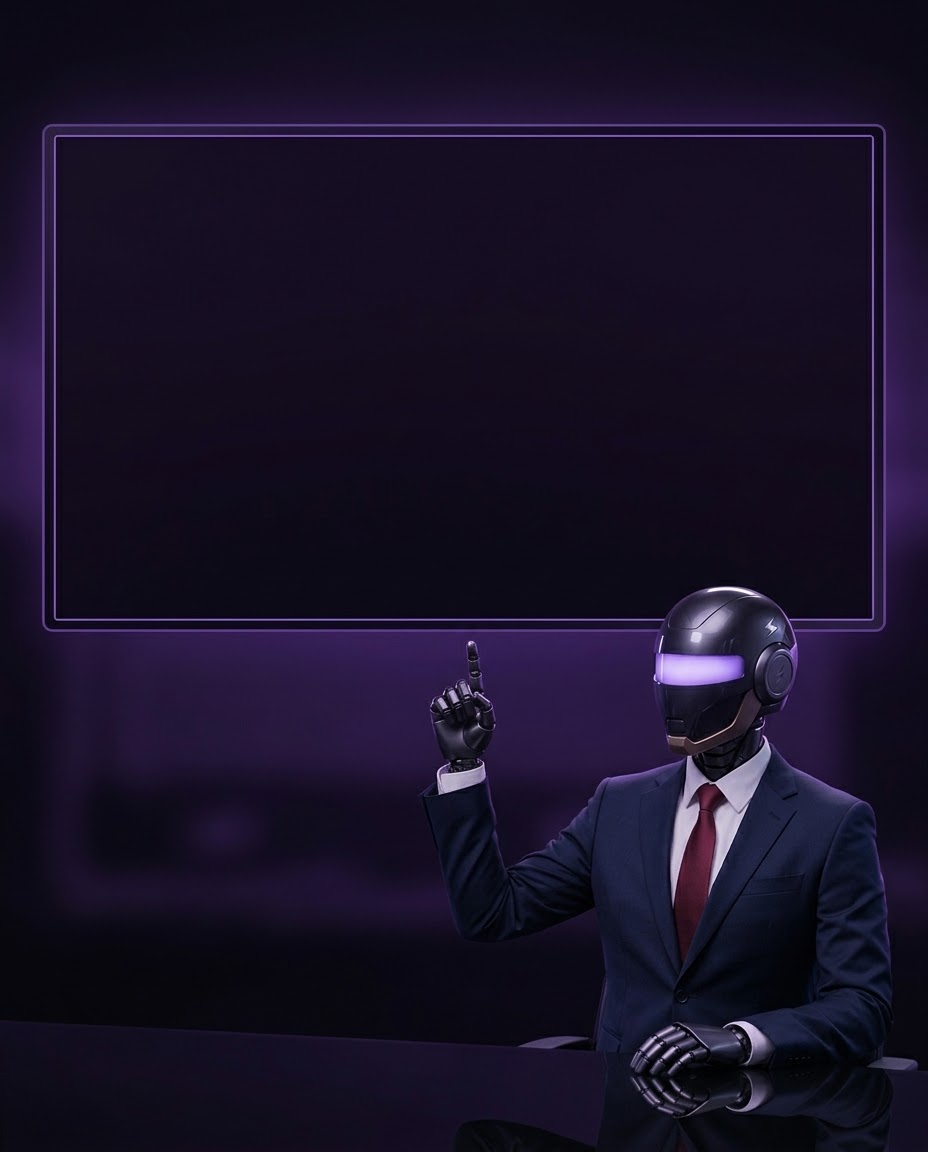
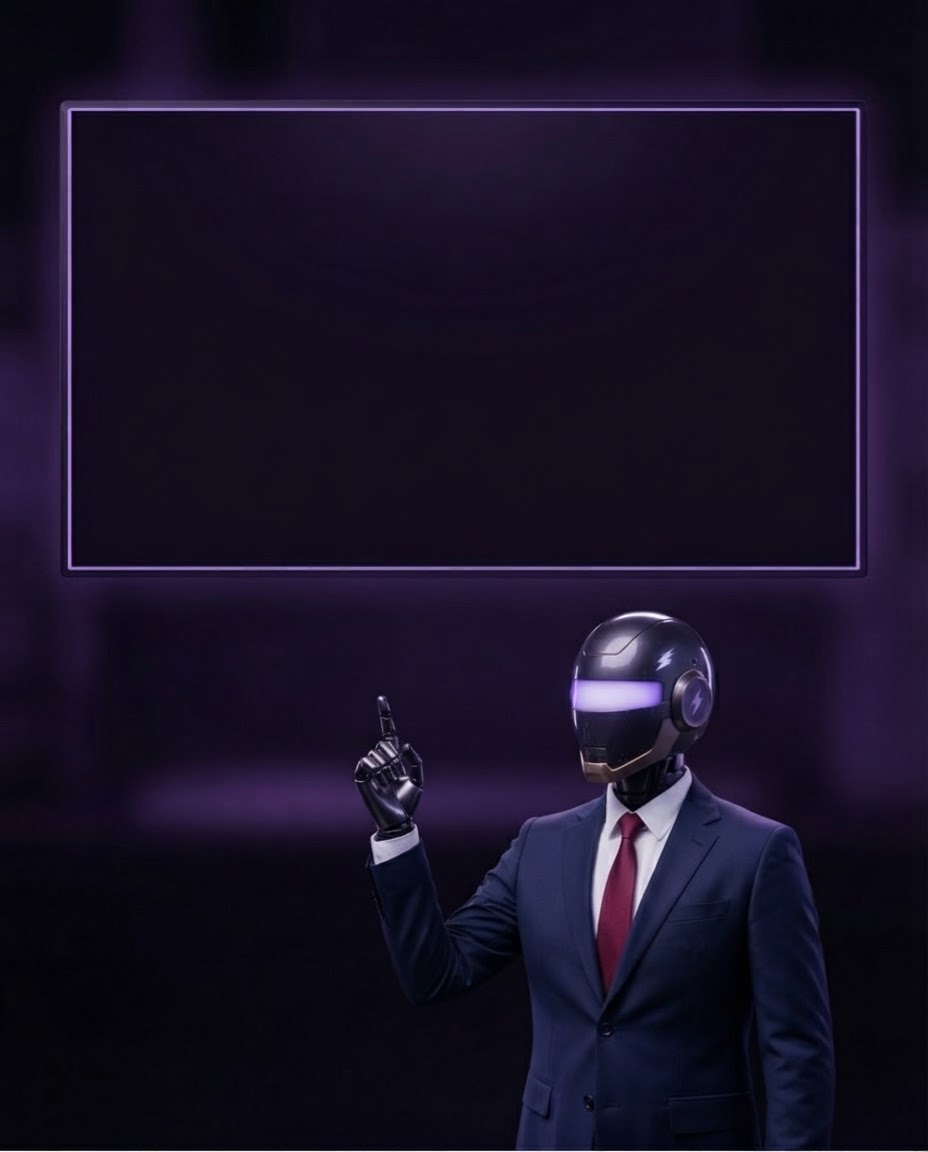
MKT-82 frame re-intake: regenerated pair arrived SWAPPED vs upload order (1st = standing pointer, 2nd = seated presenter) — content wins: IMG_0486 → brief_frame_point.png, IMG_0488 → brief_frame_present.png (JPEG→PNG full res, originals removed). Gate: point PASS (single border, standing, rect x68 y

Changed region(s): [[0.0, 0.0625, 1.0, 1.0], [0.9375, 0.9062, 1.0, 0.9375], [0.9062, 0.9688, 0.9375, 1.0]]

diff --git a/assets/marketing/_rejected/README.md b/assets/marketing/_rejected/README.md
@@ -1,0 +1,6 @@
+# _rejected — frames that failed a landing gate (kept as evidence, never deleted)
+
+| file | kind | rejected | gate result |
+|---|---|---|---|
+| brief_frame_present_20261010a.png | MKT-82 anchor frame (present) | 2026-10-10 | FAIL 2.3 screen gate — helmet crown intrudes 21 px into the screen rect (x455–533, y546–560; inner bottom edge y567). Axis/interior/crop passed. |
+| brief_frame_point_20261010a.png | MKT-82 anchor frame (point) | 2026-10-10 | FAIL 2.3 screen gate — helmet crown intrudes 33 px into the screen rect (x691–783, y586–612; inner bottom edge y619); double border line; seated, not standing. Axis/interior/crop passed. |
